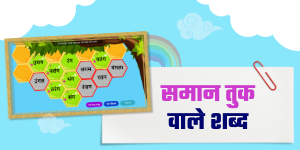
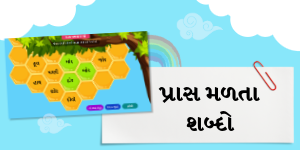
thumb added

Changed region(s): [[0.0, 0.1867, 0.87, 0.88]]

diff --git a/wg193-swar-ki-pahchan-gujrati/index.html b/wg193-swar-ki-pahchan-gujrati/index.html
@@ -15,7 +15,7 @@
     <div class="mainContainerOuter">
       <div class="wdgetTitle">
         <h2>સ્વર ની ઓળખ</h2>
-        <span id="versionId" class="versionText">b4_wg193_260806_01</span>
+        <span id="versionId" class="versionText">b4_wg193_260821_01</span>
       </div>
       <div class="svg-container" id="svg-container">
         <svg xmlns="http://www.w3.org/2000/svg" width="1920" height="1080" viewBox="0 0 1920 1080" fill="none">
@@ -80,8 +80,8 @@
 
                 </ul>
             </foreignObject>
-            <foreignObject x="1450" y="960" width="500" height="100">
-              <div class="btn-container">
+            <foreignObject x="1420" y="960" width="500" height="100">
+              <div class="btn-container" style="transform: scale(.9);">
                 <img style="cursor: pointer;" class="show-ans" id="showAns-btn" height="80" src="./assets/show-ans.svg" alt="">
                 <img style="cursor: pointer;" id="newLetter-btn" height="80" src="./assets/next-word.svg" alt="">
               </div>

diff --git a/wg174-opposite-word-gujrati/index.html b/wg174-opposite-word-gujrati/index.html
@@ -15,7 +15,7 @@
     <div class="mainContainerOuter">
       <div class="wdgetTitle">
         <h2>વિરુદ્ધાર્થી શબ્દો</h2>
-        <span id="versionId" class="versionText">b4_wg174_260724_01</span>
+        <span id="versionId" class="versionText">b4_wg174_260821_01</span>
       </div>
       <div class="svg-container" id="svg-container">
         <svg xmlns="http://www.w3.org/2000/svg" width="1920" height="1080" viewBox="0 0 1920 1080" fill="none">

diff --git a/wg173-rhyming-words-gujurati/index.html b/wg173-rhyming-words-gujurati/index.html
@@ -15,7 +15,7 @@
     <div class="mainContainerOuter">
       <div class="wdgetTitle">
         <h2>પ્રાસ મળતા શબ્દો</h2>
-        <span id="versionId" class="versionText">b4_wg173_260812_01</span>
+        <span id="versionId" class="versionText">b4_wg173_260821_01</span>
       </div>
       <div class="svg-container" id="svg-container">
         <svg xmlns="http://www.w3.org/2000/svg" width="1920" height="1080" viewBox="0 0 1920 1080" fill="none">
